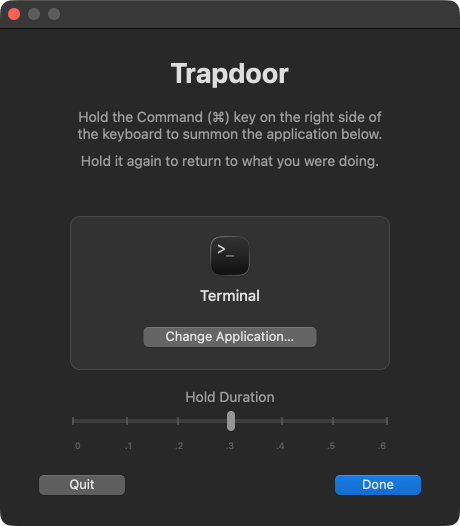
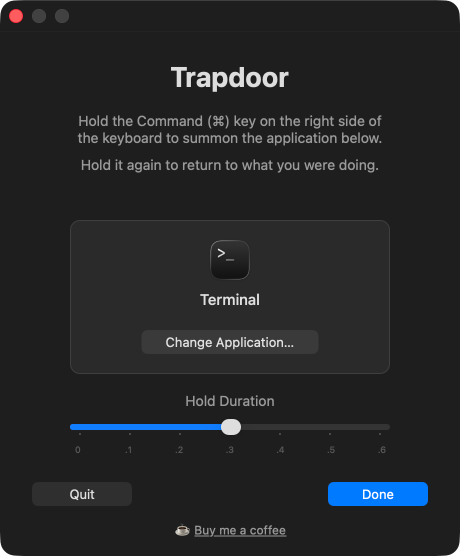
Add 'Buy me a coffee' link to settings
Increase bottom bar height and move Quit/Done buttons down to make room for a centered "Buy me a coffee" link. Add a non-bordered attributed NSButton with emoji (underline applied only to the text) and a tooltip, plus an openCoffee handler that opens the Ko-fi URL. Update settings screenshot.

diff --git a/main.swift b/main.swift
@@ -271,7 +271,7 @@ class SettingsWindow: NSWindow {
         let descH: CGFloat = 92
         let chooseH: CGFloat = 32
         let sliderBlockH: CGFloat = 64  // caption + slider + tick labels
-        let bottomBarH: CGFloat = 60    // Quit / Done row + bottom margin
+        let bottomBarH: CGFloat = 86    // Quit / Done row + coffee link + bottom margin
         let g: CGFloat = 16             // generic gap
 
         // App-selection box (icon + name + change button) metrics
@@ -431,16 +431,39 @@ class SettingsWindow: NSWindow {
 
         // Bottom bar: Quit (secondary, left) + Done (primary, right)
         let btnW: CGFloat = 100
+        let barY: CGFloat = 46
         let quitBtn = NSButton(title: "Quit", target: NSApp, action: #selector(NSApplication.terminate(_:)))
-        quitBtn.frame = NSRect(x: pad, y: 24, width: btnW, height: 32)
+        quitBtn.frame = NSRect(x: pad, y: barY, width: btnW, height: 32)
         quitBtn.bezelStyle = .rounded
         c.addSubview(quitBtn)
 
         let doneBtn = NSButton(title: "Done", target: self, action: #selector(saveAndClose))
-        doneBtn.frame = NSRect(x: contentW - pad - btnW, y: 24, width: btnW, height: 32)
+        doneBtn.frame = NSRect(x: contentW - pad - btnW, y: barY, width: btnW, height: 32)
         doneBtn.bezelStyle = .rounded
         doneBtn.keyEquivalent = "\r"
         c.addSubview(doneBtn)
+
+        // "Buy me a coffee" link, centered below the buttons
+        let coffeeBtn = NSButton(title: "", target: self, action: #selector(openCoffee))
+        coffeeBtn.isBordered = false
+        let coffeeTitle = "☕ Buy me a coffee" as NSString
+        let coffeeAttr = NSMutableAttributedString(string: coffeeTitle as String)
+        coffeeAttr.addAttributes([
+            .foregroundColor: NSColor.secondaryLabelColor,
+            .font: NSFont.systemFont(ofSize: NSFont.systemFontSize - 1),
+        ], range: NSRange(location: 0, length: coffeeTitle.length))
+        // Underline only the words, not the emoji.
+        let textStart = coffeeTitle.range(of: "Buy").location
+        if textStart != NSNotFound {
+            coffeeAttr.addAttribute(.underlineStyle, value: NSUnderlineStyle.single.rawValue,
+                                    range: NSRange(location: textStart, length: coffeeTitle.length - textStart))
+        }
+        coffeeBtn.attributedTitle = coffeeAttr
+        coffeeBtn.sizeToFit()
+        coffeeBtn.frame = NSRect(x: (contentW - coffeeBtn.frame.width) / 2, y: 16,
+                                 width: coffeeBtn.frame.width, height: 20)
+        coffeeBtn.toolTip = "Support Trapdoor on Ko-fi"
+        c.addSubview(coffeeBtn)
 
         contentView = c
         updateAppDisplay()
@@ -490,6 +513,10 @@ class SettingsWindow: NSWindow {
         NSWorkspace.shared.open(
             URL(string: "x-apple.systempreferences:com.apple.preference.security?Privacy_Accessibility")!
         )
+    }
+
+    @objc private func openCoffee() {
+        NSWorkspace.shared.open(URL(string: "https://ko-fi.com/grokcodile")!)
     }
 }
 